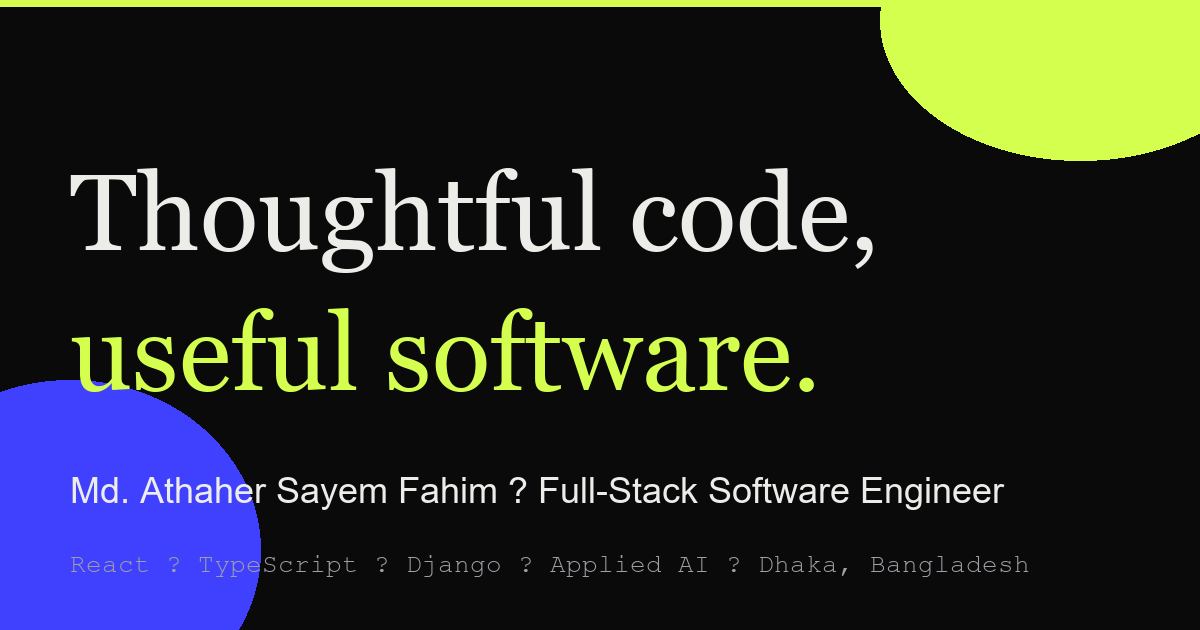
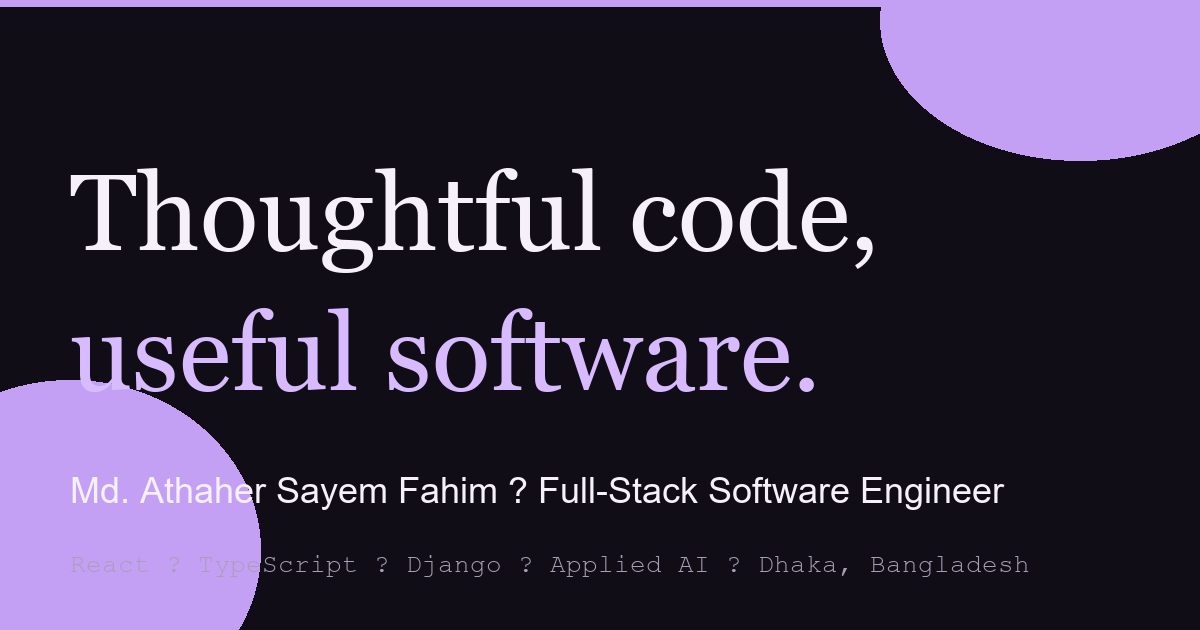
feat: premium aubergine purple redesign with Manrope typography

Changed region(s): [[0.0, 0.4825, 0.6783, 1.0], [0.0, 0.0, 1.0, 0.2714]]

diff --git a/app/globals.css b/app/globals.css
@@ -1,56 +1,77 @@
 @import "tailwindcss";
 
 @theme {
-  --color-ink: #0a0a0b;
-  --color-surface: #111113;
-  --color-raised: #17171a;
-  --color-line: rgba(255, 255, 255, 0.08);
-  --color-soft: rgba(255, 255, 255, 0.06);
-  --color-text: #ecece9;
-  --color-muted: #9f9fa5;
-  --color-faint: #6d6d74;
-  --color-accent: #d4ff4f;
-  --color-accent-ink: #9cbb3c;
-  --color-accent-soft: rgba(212, 255, 79, 0.12);
+  /* ------------------------------------------------------------------ */
+  /* Premium aubergine palette (dark-first). Every token below is        */
+  /* overridden per-theme in :root / html.light with the same names,     */
+  /* so Tailwind utilities like bg-surface, text-accent, border-line     */
+  /* all follow the active theme at runtime.                             */
+  /* ------------------------------------------------------------------ */
+  --color-ink: #120e1c;            /* overlay chrome (nav blur, toast) */
+  --color-bg: #100d17;             /* main background — aubergine charcoal */
+  --color-surface: #191522;        /* card background */
+  --color-raised: #241d30;         /* secondary background */
+  --color-soft: rgba(197, 165, 245, 0.08); /* translucent chip surface */
+  --color-line: #393047;           /* borders */
+  --color-fg: #f5f0fa;             /* primary text */
+  --color-muted: #c9bed5;          /* secondary text */
+  --color-faint: #a99db6;          /* muted text */
+  --color-accent: #c4a0f5;         /* primary purple — interactive elements */
+  --color-accent-hover: #d8bbff;  /* purple hover */
+  --color-accent-bright: #d8bbff; /* highlight text (headline emphasis) */
+  --color-accent-ink: #22162e;    /* text placed on accent fills */
+  --color-accent-soft: rgba(196, 160, 245, 0.14); /* accent glow/tint */
 
   --font-display: var(--font-instrument), Georgia, serif;
-  --font-sans: var(--font-inter), ui-sans-serif, system-ui, sans-serif;
+  --font-sans: var(--font-manrope), ui-sans-serif, system-ui, sans-serif;
 
   --ease-out-soft: cubic-bezier(0.16, 1, 0.3, 1);
 }
 
+/* Dark mode (default) */
 :root {
-  --bg: #0a0a0b;
-  --fg: #ecece9;
-  --muted: #9f9fa5;
-  --surface: #111113;
-  --raised: #17171a;
-  --line: rgba(255, 255, 255, 0.08);
-  --accent: #d4ff4f;
-  --accent-ink: #9cbb3c;
-  --accent-soft: rgba(212, 255, 79, 0.12);
+  --color-ink: #120e1c;
+  --color-bg: #100d17;
+  --color-surface: #191522;
+  --color-raised: #241d30;
+  --color-soft: rgba(197, 165, 245, 0.08);
+  --color-line: #393047;
+  --color-fg: #f5f0fa;
+  --color-muted: #c9bed5;
+  --color-faint: #a99db6;
+  --color-accent: #c4a0f5;
+  --color-accent-hover: #d8bbff;
+  --color-accent-bright: #d8bbff;
+  --color-accent-ink: #22162e;
+  --color-accent-soft: rgba(196, 160, 245, 0.14);
 }
 
+/* Light mode — warm, clean, luxurious */
 html.light {
-  --bg: #f5f4f0;
-  --fg: #141416;
-  --muted: #5c5c64;
-  --surface: #ffffff;
-  --raised: #fbfbf9;
-  --line: rgba(20, 20, 22, 0.1);
-  --accent: #7d9c00;
-  --accent-ink: #5e7800;
-  --accent-soft: rgba(125, 156, 0, 0.1);
+  --color-ink: #ffffff;
+  --color-bg: #f7f5fa;
+  --color-surface: #ffffff;
+  --color-raised: #eee9f4;
+  --color-soft: rgba(36, 29, 45, 0.06);
+  --color-line: #e2dbea;
+  --color-fg: #241d2d;
+  --color-muted: #62596d;
+  --color-faint: #756b80;
+  --color-accent: #7952a8;
+  --color-accent-hover: #68418f;
+  --color-accent-bright: #8b5fc3;
+  --color-accent-ink: #ffffff;
+  --color-accent-soft: rgba(121, 82, 168, 0.12);
 }
 
 * {
-  border-color: var(--line);
+  border-color: var(--color-line);
 }
 
 html {
   scroll-behavior: smooth;
   scroll-padding-top: 96px;
-  background: var(--bg);
+  background: var(--color-bg);
   color-scheme: dark;
 }
 
@@ -59,20 +80,20 @@ html.light {
 }
 
 body {
-  background: var(--bg);
-  color: var(--fg);
+  background: var(--color-bg);
+  color: var(--color-fg);
   -webkit-font-smoothing: antialiased;
   text-rendering: optimizeLegibility;
 }
 
 ::selection {
-  background: var(--accent);
-  color: #0a0a0b;
+  background: var(--color-accent);
+  color: var(--color-accent-ink);
 }
 
 /* Visible focus rings, WCAG AA-friendly */
 :focus-visible {
-  outline: 2px solid var(--accent);
+  outline: 2px solid var(--color-accent);
   outline-offset: 3px;
   border-radius: 4px;
 }
@@ -135,9 +156,9 @@ body {
 .shimmer {
   background: linear-gradient(
     100deg,
-    var(--surface) 30%,
-    var(--raised) 50%,
-    var(--surface) 70%
+    var(--color-surface) 30%,
+    var(--color-raised) 50%,
+    var(--color-surface) 70%
   );
   background-size: 200% 100%;
   animation: shimmer 1.6s linear infinite;

diff --git a/components/Hero.tsx b/components/Hero.tsx
@@ -36,7 +36,7 @@ function WordLine({ line }: { line: string }) {
           key={`${word}-${i}`}
           variants={wordVariants}
           className={`mr-[0.22em] inline-block ${
-            i === 0 && line.includes("useful") ? "text-accent" : ""
+            i === 0 && line.includes("useful") ? "text-accent-bright" : ""
           }`}
           aria-hidden="true"
         >
@@ -53,12 +53,12 @@ export function Hero() {
       {/* Atmosphere: low-opacity gradient blobs + dot grid */}
       <div aria-hidden="true" className="pointer-events-none absolute inset-0">
         <div className="blob-a absolute -left-32 top-10 h-[420px] w-[420px] rounded-full bg-accent/[0.07] blur-3xl" />
-        <div className="blob-b absolute -right-24 bottom-0 h-[380px] w-[380px] rounded-full bg-indigo-500/10 blur-3xl" />
+        <div className="blob-b absolute -right-24 bottom-0 h-[380px] w-[380px] rounded-full bg-accent/[0.05] blur-3xl" />
         <div
           className="absolute inset-0 opacity-[0.25]"
           style={{
             backgroundImage:
-              "radial-gradient(circle, var(--line) 1px, transparent 1px)",
+              "radial-gradient(circle, var(--color-line) 1px, transparent 1px)",
             backgroundSize: "32px 32px",
             maskImage: "radial-gradient(ellipse 70% 55% at 60% 20%, #000 20%, transparent 75%)",
             WebkitMaskImage:
@@ -78,7 +78,7 @@ export function Hero() {
           <span className="text-sm text-muted">{siteConfig.availability}</span>
         </motion.div>
 
-        <h1 className="font-display text-[clamp(3rem,9.5vw,7rem)] leading-[1.02] tracking-tight">
+        <h1 className="font-display text-[clamp(2.75rem,7.5vw,4.75rem)] leading-[1.04] tracking-tight">
           <WordLine line={siteConfig.heroLine1} />
           <WordLine line={siteConfig.heroLine2} />
         </h1>
@@ -87,7 +87,7 @@ export function Hero() {
           initial={{ opacity: 0, y: 16 }}
           animate={{ opacity: 1, y: 0 }}
           transition={{ duration: 0.6, delay: 0.7 }}
-          className="mt-7 max-w-xl text-lg leading-relaxed text-muted"
+          className="mt-7 max-w-xl text-base leading-relaxed text-muted"
         >
           {siteConfig.bio}
         </motion.p>
@@ -105,7 +105,7 @@ export function Hero() {
             Get in Touch <ArrowRight size={17} aria-hidden="true" />
           </MagneticButton>
           <span className="flex items-center gap-2 text-sm text-faint">
-            <Sparkles size={14} aria-hidden="true" />
+            <Sparkles size={14} className="text-accent/70" aria-hidden="true" />
             {siteConfig.tagline}
           </span>
         </motion.div>

diff --git a/components/About.tsx b/components/About.tsx
@@ -28,7 +28,7 @@ export function About({ publicRepoCount }: { publicRepoCount: number }) {
           <span className="mr-3 text-accent">01</span>About
         </p>
         <h2 className="font-display text-[clamp(2.2rem,4.5vw,3.6rem)] leading-tight tracking-tight">
-          A builder’s mindset, <em className="text-accent">a learner’s curiosity.</em>
+          A builder’s mindset, <em className="text-accent-bright">a learner’s curiosity.</em>
         </h2>
       </Reveal>
 
@@ -40,7 +40,7 @@ export function About({ publicRepoCount }: { publicRepoCount: number }) {
               className="pointer-events-none absolute inset-0 z-10 opacity-0 transition-opacity duration-500 group-hover:opacity-100"
               style={{
                 background:
-                  "radial-gradient(360px at 50% 0%, var(--accent-soft), transparent 70%)",
+                  "radial-gradient(360px at 50% 0%, var(--color-accent-soft), transparent 70%)",
               }}
             />
             <Image
@@ -73,18 +73,18 @@ export function About({ publicRepoCount }: { publicRepoCount: number }) {
 
         <div>
           <Reveal>
-            <p className="text-lg leading-relaxed text-muted">
+            <p className="text-base leading-relaxed text-muted">
               I’m <strong className="text-fg">{siteConfig.name}</strong> — a full-stack
               engineer who cares about the whole arc of a product: understanding the
               problem, shaping the data, building a reliable API, and making the final
               interface feel effortless.
             </p>
-            <p className="mt-5 leading-relaxed text-muted">
+            <p className="mt-5 text-base leading-relaxed text-muted">
               The projects on this page span commerce platforms, news pipelines, RAG
               document chat systems, and ML experiments. Most are completely self-directed
               — built to learn, documented to teach, and shipped to be used.
             </p>
-            <p className="mt-5 leading-relaxed text-muted">
+            <p className="mt-5 text-base leading-relaxed text-muted">
               When I’m not engineering, I’m helping other students learn programming,
               networking, and algorithms as a lab teaching assistant — because the best
               way to deepen your own understanding is to explain it to someone else.

diff --git a/components/Contact.tsx b/components/Contact.tsx
@@ -39,7 +39,7 @@ export function Contact() {
           <h2 className="font-display text-[clamp(2.6rem,7vw,5.2rem)] leading-[1.05] tracking-tight">
             Let’s build something
             <br />
-            <em className="text-accent">useful together.</em>
+            <em className="text-accent-bright">useful together.</em>
           </h2>
         </Reveal>
 
@@ -47,7 +47,7 @@ export function Contact() {
           <div className="flex flex-wrap items-center justify-center gap-3">
             <a
               href={`mailto:${siteConfig.links.email}`}
-              className="group inline-flex items-center gap-3 rounded-full bg-accent px-7 py-4 font-semibold text-ink transition-transform duration-300 hover:scale-[1.03]"
+              className="group inline-flex items-center gap-3 rounded-full bg-accent px-7 py-4 font-semibold text-accent-ink transition-colors duration-300 hover:bg-accent-hover"
             >
               <Mail size={18} aria-hidden="true" />
               {siteConfig.links.email}

diff --git a/app/layout.tsx b/app/layout.tsx
@@ -1,5 +1,5 @@
 import type { Metadata } from "next";
-import { Instrument_Serif, Inter } from "next/font/google";
+import { Instrument_Serif, Manrope } from "next/font/google";
 import { MotionConfig } from "framer-motion";
 import { siteConfig } from "@/data/siteConfig";
 import { CursorGlow } from "@/components/CursorGlow";
@@ -13,9 +13,9 @@ const instrument = Instrument_Serif({
   display: "swap",
 });
 
-const inter = Inter({
+const manrope = Manrope({
   subsets: ["latin"],
-  variable: "--font-inter",
+  variable: "--font-manrope",
   display: "swap",
 });
 
@@ -51,7 +51,7 @@ export default function RootLayout({
   children,
 }: Readonly<{ children: React.ReactNode }>) {
   return (
-    <html lang="en" className={`${instrument.variable} ${inter.variable} noise`}>
+    <html lang="en" className={`${instrument.variable} ${manrope.variable} noise`}>
       <head>
         <ThemeBootstrap />
         <link rel="icon" href={withBase("/favicon.svg")} type="image/svg+xml" />

diff --git a/data/siteConfig.ts b/data/siteConfig.ts
@@ -73,8 +73,9 @@ export const siteConfig: SiteConfig = {
   featured: ["E-COM_Store", "Phimart", "AI_News_Scraper"],
   /** Repos to always hide (e.g. the portfolio itself or archives). */
   exclude: ["Portfolio"],
-  /** Accent (electric lime). Swap hex values here and the whole site follows. */
-  accent: "#D4FF4F",
+  /** Accent — primary purple (dark mode). Swap the hex values here and in
+   *  app/globals.css (--color-accent dark + light) and the whole site follows. */
+  accent: "#C4A0F5",
   /** Repos that also have a public design-preview page in the gallery. */
   galleryPreviews: [
     "AI_Health_Checkup",

diff --git a/components/Experience.tsx b/components/Experience.tsx
@@ -46,7 +46,7 @@ export function Experience() {
                 <div className="relative">
                   <span
                     aria-hidden="true"
-                    className="absolute -left-8 top-1.5 h-3 w-3 rounded-full border-2 border-accent bg-ink"
+                    className="absolute -left-8 top-1.5 h-3 w-3 rounded-full border-2 border-accent bg-bg"
                   />
                   <p className="font-mono text-xs text-faint">{item.period}</p>
                   <h4 className="mt-1.5 font-display text-xl tracking-tight">{item.role}</h4>

diff --git a/components/SiteNav.tsx b/components/SiteNav.tsx
@@ -171,7 +171,7 @@ export function SiteNav() {
                 target="_blank"
                 rel="noopener noreferrer"
                 onClick={() => setOpen(false)}
-                className="flex items-center justify-center gap-2 rounded-full bg-accent px-6 py-3.5 font-semibold text-ink"
+                className="flex items-center justify-center gap-2 rounded-full bg-accent px-6 py-3.5 font-semibold text-accent-ink"
               >
                 <FileText size={16} aria-hidden="true" />
                 View Resume

diff --git a/components/ProjectCard.tsx b/components/ProjectCard.tsx
@@ -70,7 +70,7 @@ export function ProjectCard({ project, index }: { project: Project; index: numbe
         className="pointer-events-none absolute inset-0 opacity-0 transition-opacity duration-300 group-hover:opacity-100"
         style={{
           background:
-            "radial-gradient(320px circle at var(--mx,50%) var(--my,50%), var(--accent-soft), transparent 70%)",
+            "radial-gradient(320px circle at var(--mx,50%) var(--my,50%), var(--color-accent-soft), transparent 70%)",
         }}
       />
 

diff --git a/app/page.tsx b/app/page.tsx
@@ -17,7 +17,7 @@ export default function Home() {
     <>
       <a
         href="#main"
-        className="fixed left-4 top-4 z-[100] -translate-y-24 rounded-md bg-accent px-4 py-2 text-sm font-semibold text-ink transition-transform focus:translate-y-0"
+        className="fixed left-4 top-4 z-[100] -translate-y-24 rounded-md bg-accent px-4 py-2 text-sm font-semibold text-accent-ink transition-transform focus:translate-y-0"
       >
         Skip to content
       </a>

diff --git a/components/CursorGlow.tsx b/components/CursorGlow.tsx
@@ -42,7 +42,7 @@ export function CursorGlow() {
       className="pointer-events-none fixed left-0 top-0 z-[1] hidden h-90 w-90 rounded-full opacity-40 blur-3xl [mask-image:radial-gradient(circle,#000_30%,transparent_70%)] lg:block"
       style={{
         background:
-          "radial-gradient(circle, var(--accent) 0%, transparent 65%)",
+          "radial-gradient(circle, var(--color-accent) 0%, transparent 65%)",
       }}
     />
   );

diff --git a/components/Skills.tsx b/components/Skills.tsx
@@ -35,7 +35,7 @@ export function Skills() {
             <span className="mr-3 text-accent">02</span>Stack
           </p>
           <h2 className="font-display text-[clamp(2.2rem,4.5vw,3.6rem)] leading-tight tracking-tight">
-            Tools I reach for <em className="text-accent">every day.</em>
+            Tools I reach for <em className="text-accent-bright">every day.</em>
           </h2>
         </div>
       </Reveal>
